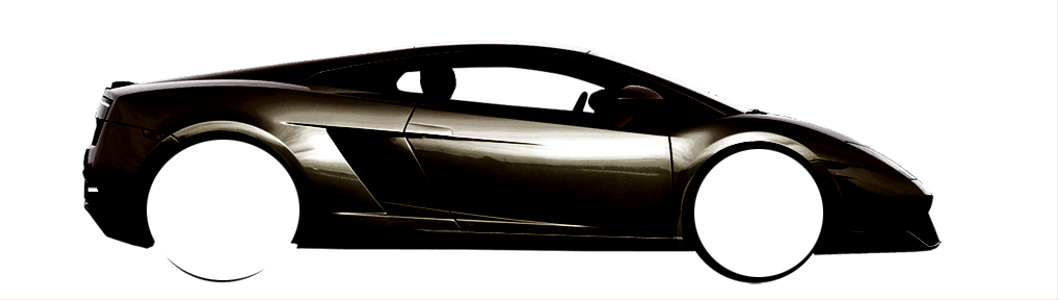
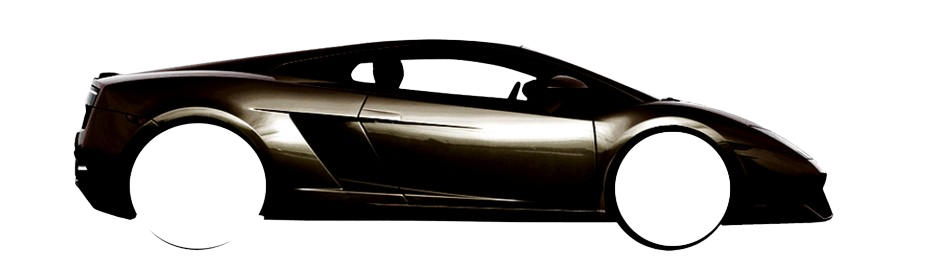
add hover message

diff --git a/styles/style.css b/styles/style.css
@@ -27,17 +27,39 @@ body {
   background-image: url('../assets/lamb.png');
   background-size: cover;
   background-repeat: no-repeat;
-  position: absolute;
-  bottom: 0px;
+  position: fixed;
+  bottom: 0;
   animation: shake linear .8s infinite;
   z-index: 1;
 }
 
 
+.welcome-hover {
+  display: none;
+  position: absolute;
+  /* top: 20px;  */
+}
+
+
+.car:hover .welcome-hover{
+  padding: 5px 5px 5px 5px;
+  display: block;
+  font-size: 2.2rem;
+  font-weight: 900;
+  border: 5px solid rgb(0, 0, 0);
+  border-radius: 30px;
+  left: 300px;
+  top:-21px;
+  color: #000000;
+  font-family: Roboto, 'Source Sans Pro';
+  white-space: nowrap;
+}
+
+
 .wheel1 img{
   width: 70px;
-  position: relative;
-  top:42px;
+  position: absolute;
+  top:40px;
   left:46px;
   animation: wheelRotation linear .400s infinite;
 }
@@ -45,8 +67,8 @@ body {
 
 .wheel2 img{
   width: 77px;
-  position: relative;
-  top: -38px;
+  position: absolute;
+  top: 40px;
   left: 235px;
   animation: wheelRotation linear .400s infinite;
 
@@ -91,7 +113,6 @@ body {
   justify-content: space-between;
   align-items: center;
   background-color: #4c4d48;
-  
 }
 
 .car-spare-parts {
@@ -105,7 +126,7 @@ body {
 
 .component-1-1 {
   display: flex;
-  gap: 10px;
+  gap: 90px;
   justify-content: space-between;
   align-items: center;
   

diff --git a/index.html b/index.html
@@ -14,17 +14,18 @@
 </head>
 
 <body>
-    <div class="container">
-        <div class="car">
-            <div class="wheel wheel1">
-                <img src="https://i.postimg.cc/1tBB8xs1/car-wheel-left.png" alt="">
-            </div>
-            <div class="wheel wheel2">
-                <img src="https://i.postimg.cc/g23vw9Ht/car-wheel-right.png" alt="">
-            </div>
+
+
+    <div class="car">
+        <div class="welcome-hover">Welcome on <br>Car Spare Parts</div>
+        <div class="wheel wheel1">
+            <img src="https://i.postimg.cc/1tBB8xs1/car-wheel-left.png" alt="">
+        </div>
+        <div class="wheel wheel2">
+            <img src="https://i.postimg.cc/g23vw9Ht/car-wheel-right.png" alt="">
         </div>
     </div>
-        
+
     <div class="auto-parts-body">
         <div class="container-nav">
             <p class="car-spare-parts">Car Spare Parts</p>
@@ -36,7 +37,7 @@
             </div>
 
             <div class="component-1-2">
-                
+
                 <img class="accountcircle-1" src="./assets/accountcircle.png" />
 
                 <p class="sign-in-1">Sign In</p>
